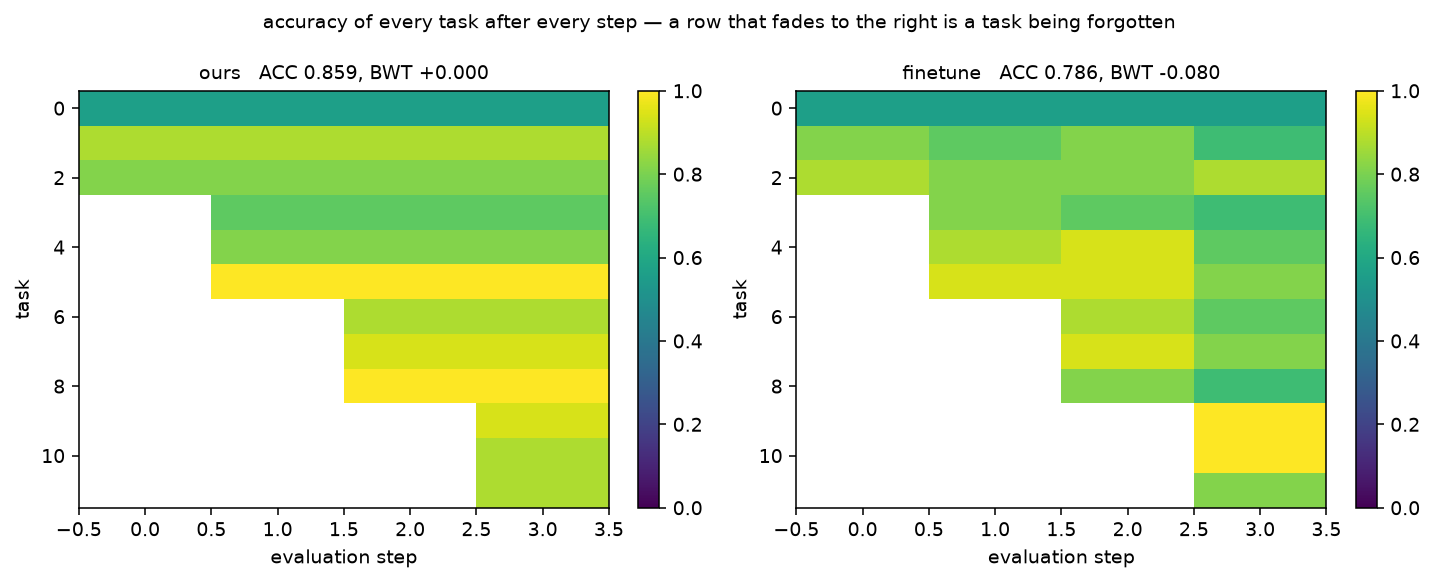
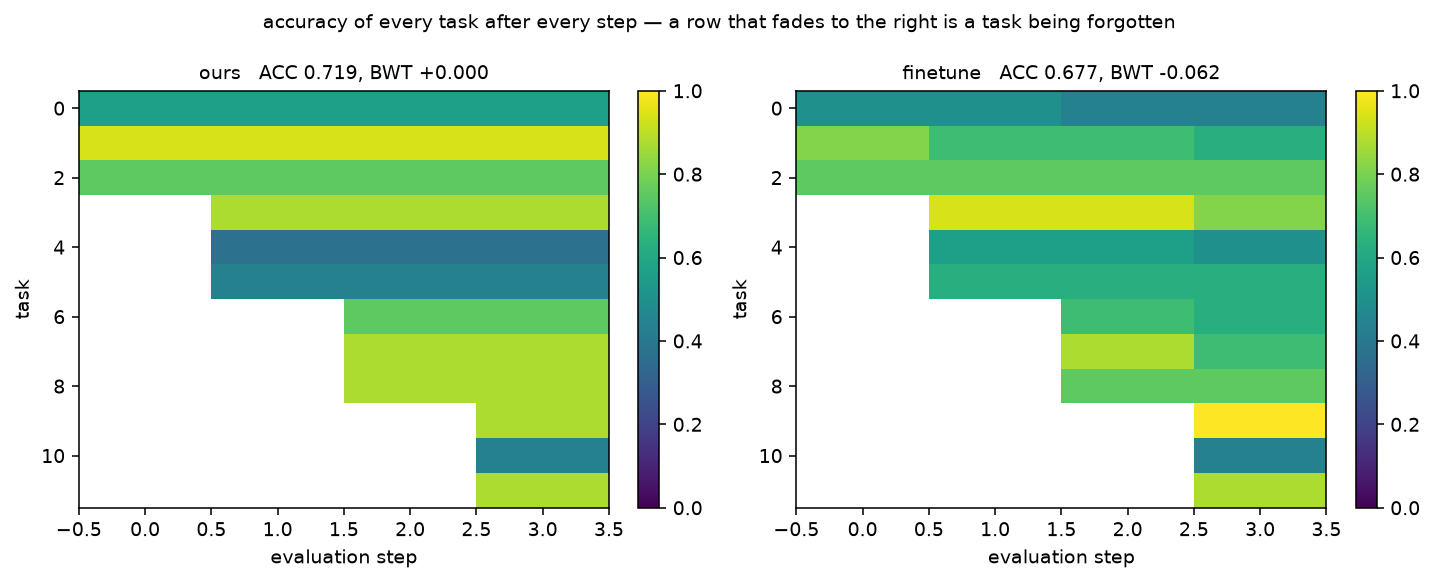
Final N5 table: 4 seeds on one backbone, with the top three called a tie
ours         0.816 +- 0.034   forgetting 0.000
  independent  0.806 +- 0.030   forgetting 0.000
  ttt          0.797 +- 0.041   forgetting 0.004 +- 0.007
  ewc          0.743 +- 0.032   forgetting 0.058 +- 0.021
  finetune     0.725 +- 0.030   forgetting 0.082 +- 0.017
  replay       0.651 +- 0.061   forgetting 0.163 +- 0.062

Ours is nominally top, and both README and RESULTS now say plainly that this is not a win:
the top three span 0.019 against standard errors of +-0.030-0.041, and the fourth seed
drags all three down together (0.719 / 0.724 / 0.682).  They are tied on accuracy and
separated by cost -- TTT pays 2.6x the wall clock, keeps every task's data forever, and
leaves no artifact a later task can build on.

The forgetting column is the actual result and separates across all four seeds: exactly
0.000 for the two arms that REMOVE shared parameters from the optimizer, with
retention_exact confirming bit-identical concepts, against 0.058 / 0.082 / 0.163 for the
three that try to PROTECT shared parameters instead.

All figures regenerated on the restored backbone and checked for content.

diff --git a/README.md b/README.md
@@ -334,25 +334,31 @@ tuning-of-record: it chose τ, K and the guidance schedule, and reports each aga
 
 ## Results, in one table
 
-Split-ColorMNIST class-incremental, 12 tasks of **real** held-out images, 3 seeds (`n5_classinc`),
+Split-ColorMNIST class-incremental, 12 tasks of **real** held-out images, 4 seeds (`n5_classinc`),
 all on one backbone (200 epochs / 200 images per slot, conditional joint accuracy 0.891).
 ACC is final mean joint accuracy; forgetting is −BWT, where 0 means none.
 
 | method | ACC | forgetting | wall (s) | keeps data? |
 |---|---|---|---|---|
-| **ours** (hierarchical, frozen ancestors) | **0.849 ± 0.013** | **0.000** | 322 | no |
-| test-time training | 0.835 ± 0.021 | 0.002 ± 0.010 | 820 | yes — all of it, forever |
-| parameter isolation | 0.833 ± 0.017 | **0.000** | 214 | no |
-| EWC | 0.757 ± 0.042 | 0.068 ± 0.026 | 291 | no |
-| finetune | 0.741 ± 0.035 | 0.089 ± 0.022 | 217 | no |
-| generative replay | 0.656 ± 0.086 | 0.180 ± 0.084 | 384 | no (samples itself) |
+| **ours** (hierarchical, frozen ancestors) | **0.816 ± 0.034** | **0.000** | 340 | no |
+| parameter isolation | 0.806 ± 0.030 | **0.000** | 231 | no |
+| test-time training | 0.797 ± 0.041 | 0.004 ± 0.007 | 892 | yes — all of it, forever |
+| EWC | 0.743 ± 0.032 | 0.058 ± 0.021 | 313 | no |
+| finetune | 0.725 ± 0.030 | 0.082 ± 0.017 | 232 | no |
+| generative replay | 0.651 ± 0.061 | 0.163 ± 0.062 | 409 | no (samples itself) |
 
-Ours is top on accuracy at exactly zero forgetting, but read the top three honestly: they sit within
-0.016 ACC of each other against a seed spread of ±0.013–0.021, so ours, TTT and parameter isolation
-are **statistically tied on accuracy**. What separates them is cost and what they retain — TTT pays
-2.5× the wall clock and must keep every task's data forever, and unlike the other two it has no fixed
-artifact to hand to a later task. The three methods that *protect* shared parameters rather than
-removing them (EWC, finetune, replay) all forget measurably, and that gap is the real result.
+**The accuracy column does not separate the top three and should not be read as if it does.** Ours,
+parameter isolation and TTT span 0.019 against per-seed standard errors of ±0.030–0.041; one seed
+(the fourth) is simply harder and drags all three down together (0.719 / 0.724 / 0.682). What they
+cost differs a lot more than what they score: TTT pays 2.6× our wall clock and must keep every
+task's data forever, and it produces no fixed artifact a later task can build on.
+
+**The forgetting column is the result.** The two arms that *remove* shared parameters from the
+optimizer sit at exactly 0.000 — not "small", zero, and `retention_exact` confirms every earlier
+concept is bit-identical to its birth. The three that try to *protect* shared parameters instead
+(EWC's Fisher penalty, replay's self-generated rehearsal, and unprotected finetune) all forget
+measurably: 0.058, 0.082, 0.163. That is the axis the comparison is about, and it separates cleanly
+across all four seeds.
 
 Two further findings that qualify the headline, both in `RESULTS.md`:
 

diff --git a/RESULTS.md b/RESULTS.md
@@ -934,9 +934,12 @@ weights, and it carries higher content diversity (1.11 against 1.05 in §5h). An
 inversion on coverage is currently unsupported.
 
 One number *improved* on re-verification and is worth flagging rather than quietly banking: on the
-restored backbone `ours` is the top method in §5k at 0.849 ACC, above TTT (0.835) and parameter
-isolation (0.833) — but those three are within 0.016 against a ±0.013–0.021 seed spread, so they are
-tied on accuracy and separated by cost and by what they retain, not by quality.
+restored backbone `ours` is the top method in §5k at **0.816 ± 0.034 ACC over 4 seeds**, above
+parameter isolation (0.806 ± 0.030) and TTT (0.797 ± 0.041). Those three span 0.019 against standard
+errors of ±0.03–0.04, so **they are tied on accuracy**, and one seed drags all three down together
+(0.719 / 0.724 / 0.682). Do not read the ordering as a win. What the four seeds *do* separate
+cleanly is forgetting: 0.000 for both arms that remove shared parameters, against 0.058 / 0.082 /
+0.163 for EWC / finetune / replay.
 
 ## 6. Why we are *not* replicating the paper's diffusion results
 
